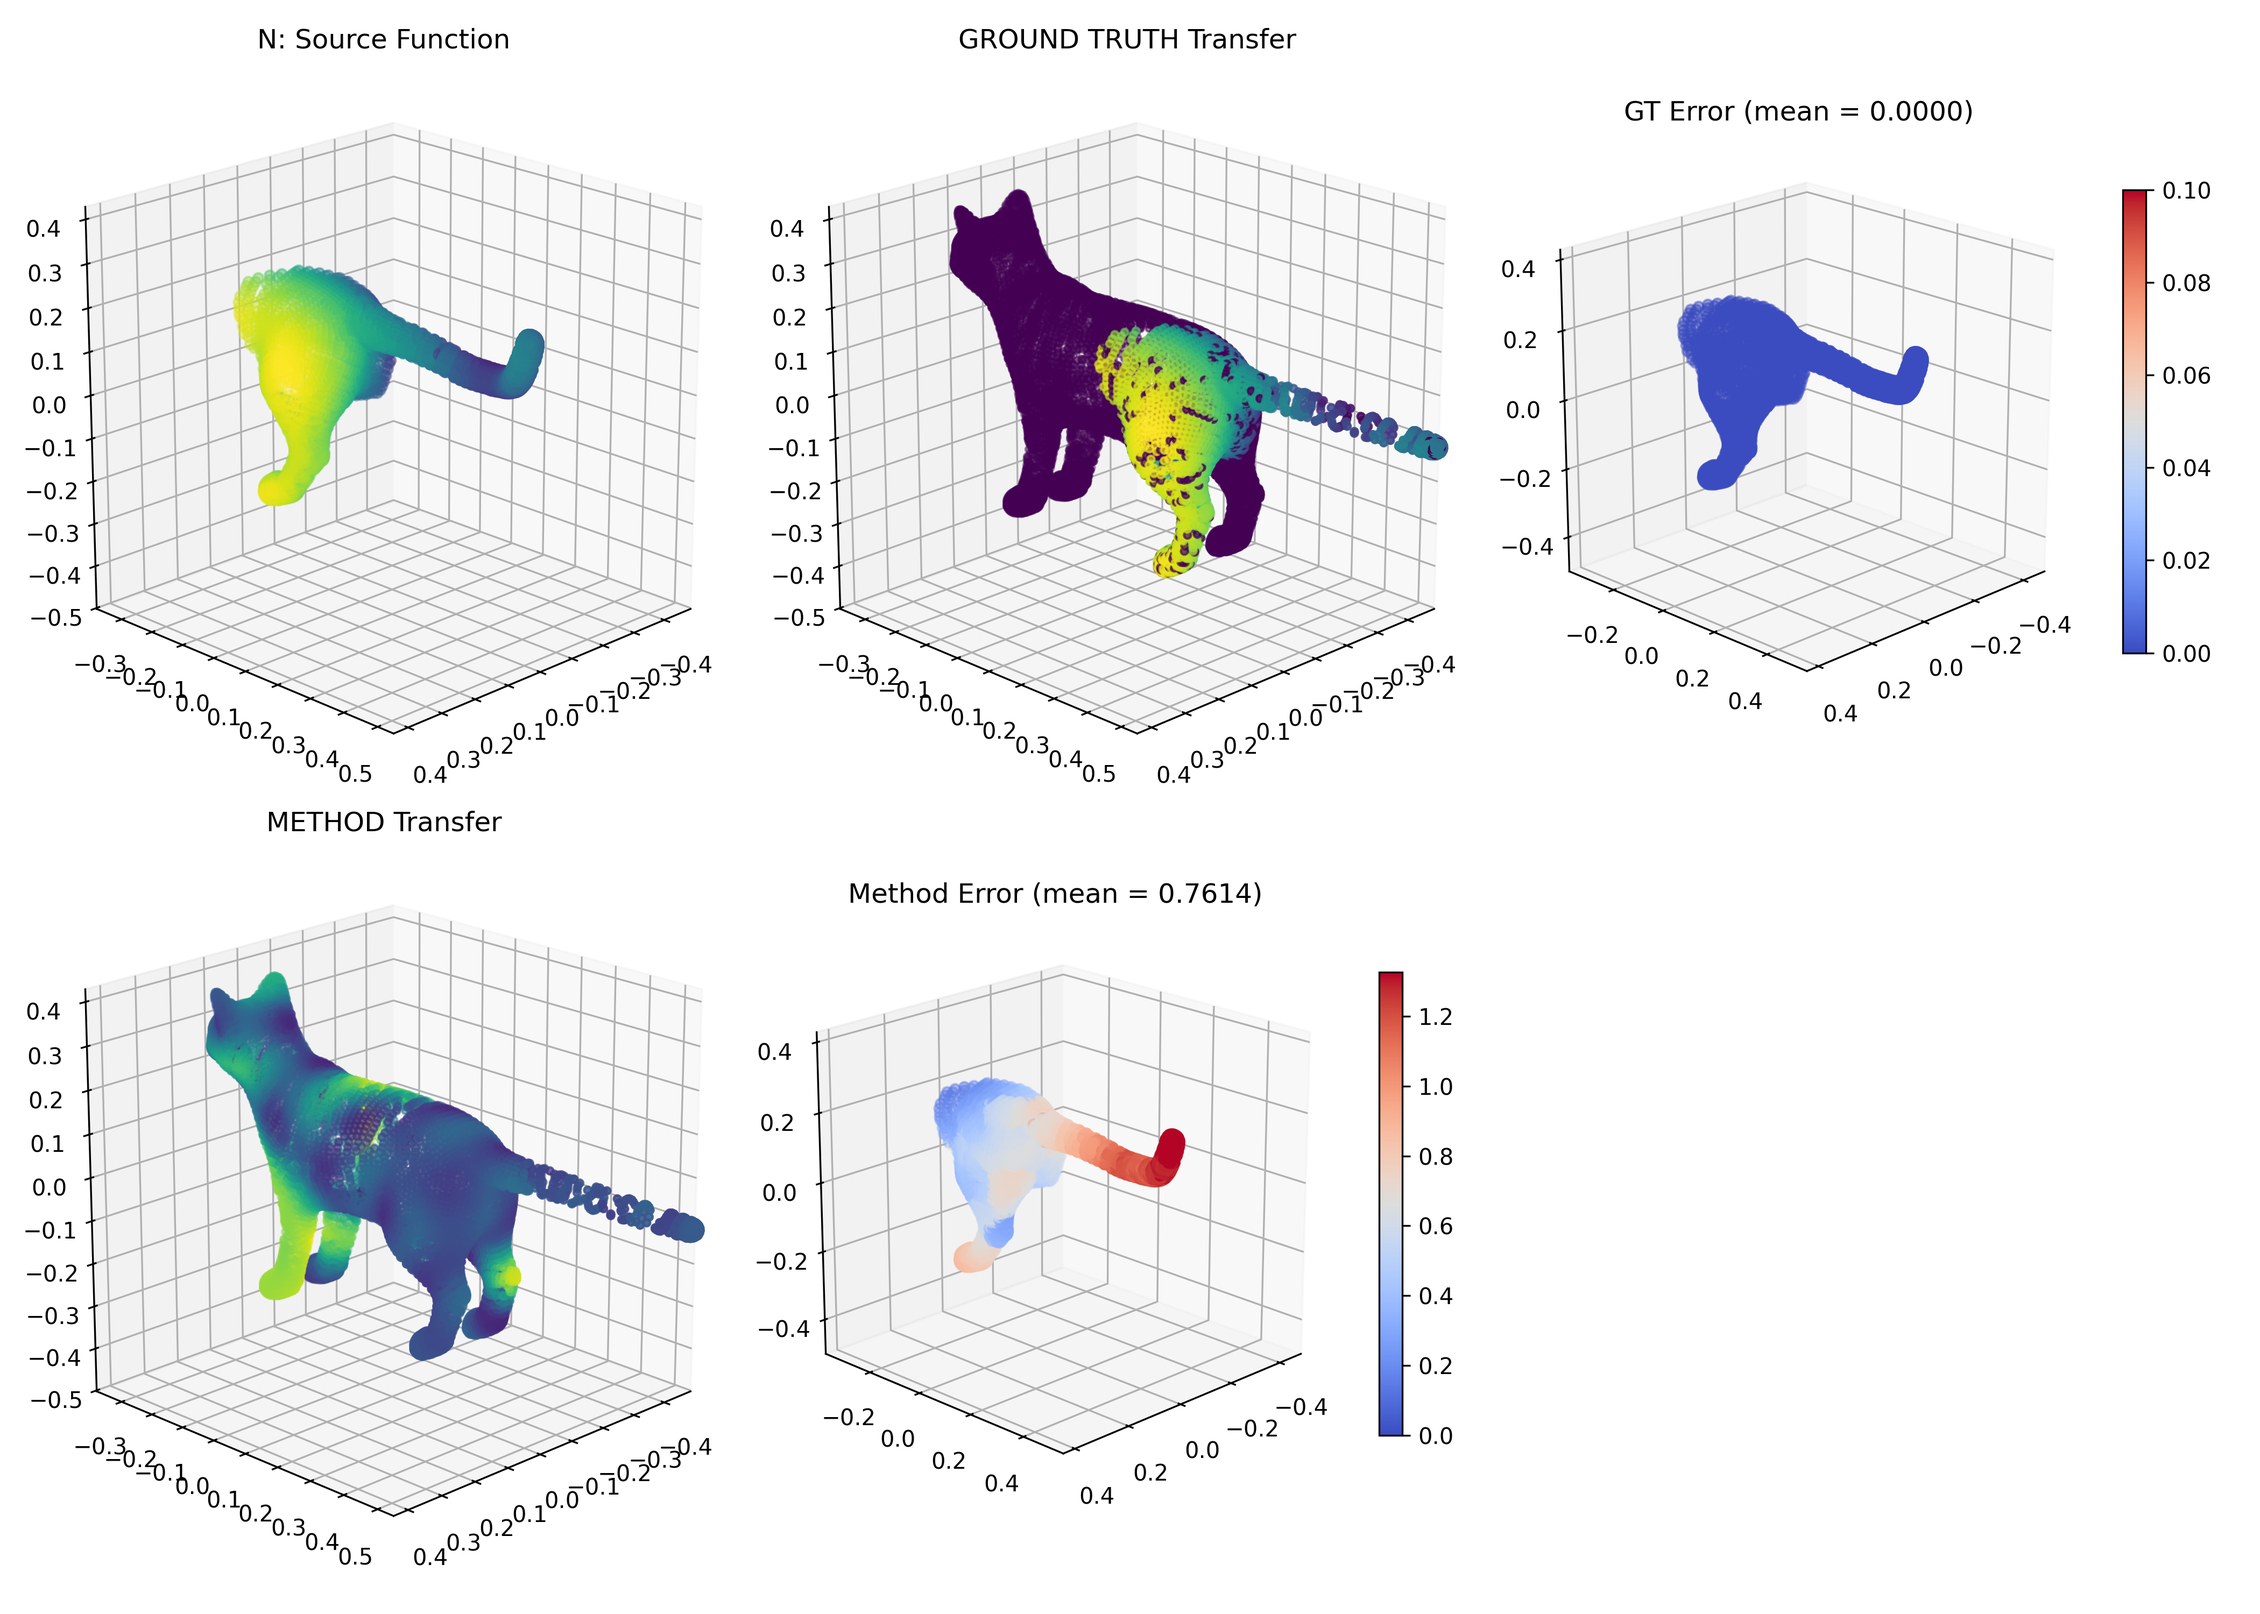
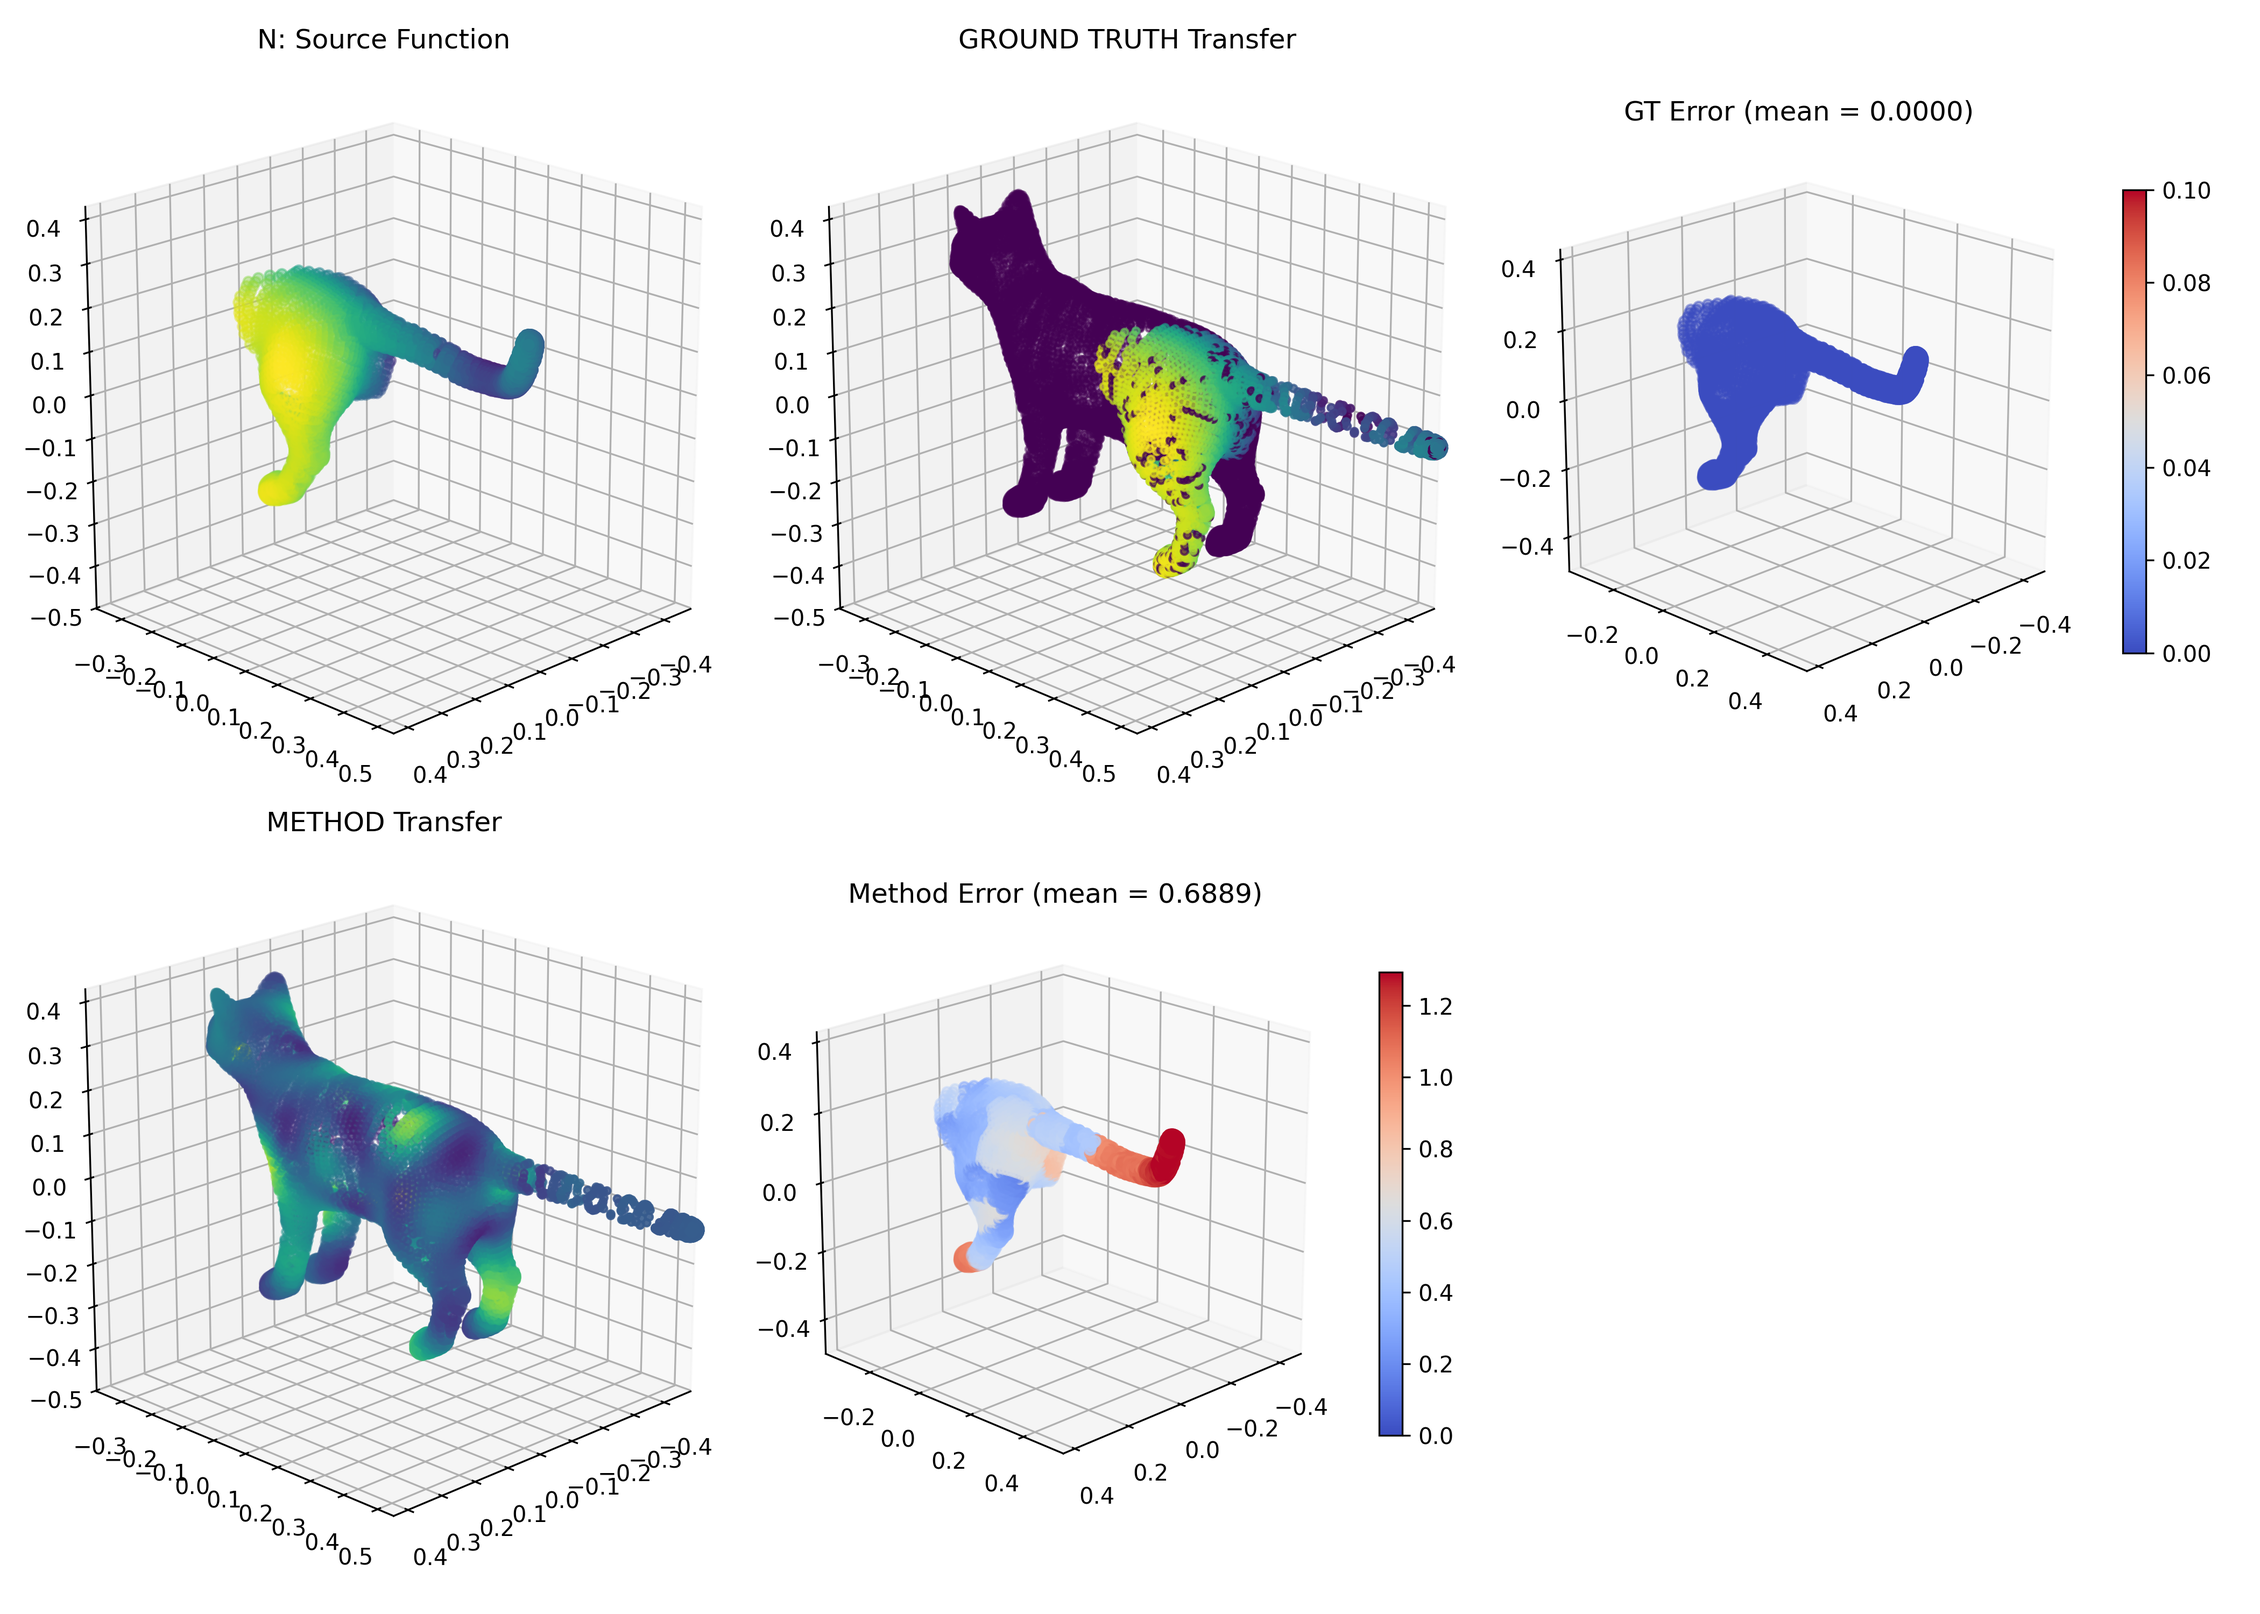
add results

diff --git a/results/meshes_summary.html b/results/meshes_summary.html
@@ -15,8 +15,8 @@ tr:nth-child(even) { background: #fbfbfb; }
 <h1>Meshes Summary</h1>
 <table>
 <tr><th>Name</th><th>Mean Geodesic Error</th><th>Visualizations</th></tr>
-<tr><td>cuts_cat_shape_10</td><td>0.761382</td><td><a href="cuts/cuts_cat_shape_10/pfm_visualization.png" target="_blank">pfm_visualization</a> | <a href="cuts/cuts_cat_shape_10/indexed_color_transfer.png" target="_blank">indexed_color_transfer</a></td></tr>
-<tr><td>holes_centaur_shape_1</td><td>0.100476</td><td><a href="holes/holes_centaur_shape_1/pfm_visualization.png" target="_blank">pfm_visualization</a> | <a href="holes/holes_centaur_shape_1/indexed_color_transfer.png" target="_blank">indexed_color_transfer</a></td></tr>
+<tr><td>cuts_cat_shape_10</td><td>0.688851</td><td><a href="cuts/cuts_cat_shape_10/pfm_visualization.png" target="_blank">pfm_visualization</a> | <a href="cuts/cuts_cat_shape_10/indexed_color_transfer.png" target="_blank">indexed_color_transfer</a></td></tr>
+<tr><td>holes_centaur_shape_1</td><td>0.062982</td><td><a href="holes/holes_centaur_shape_1/pfm_visualization.png" target="_blank">pfm_visualization</a> | <a href="holes/holes_centaur_shape_1/indexed_color_transfer.png" target="_blank">indexed_color_transfer</a></td></tr>
 </table>
 </body>
 </html>
